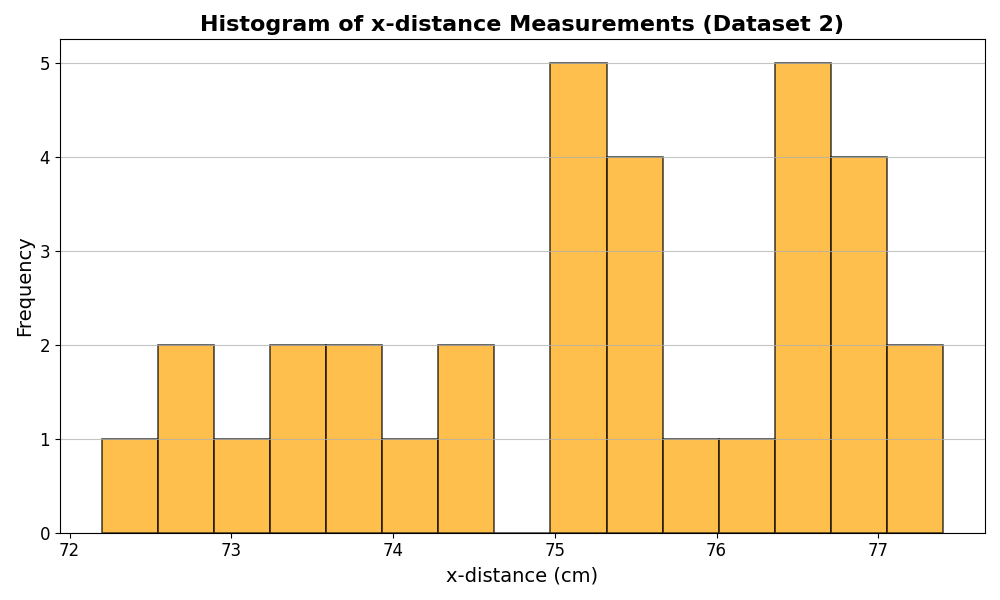
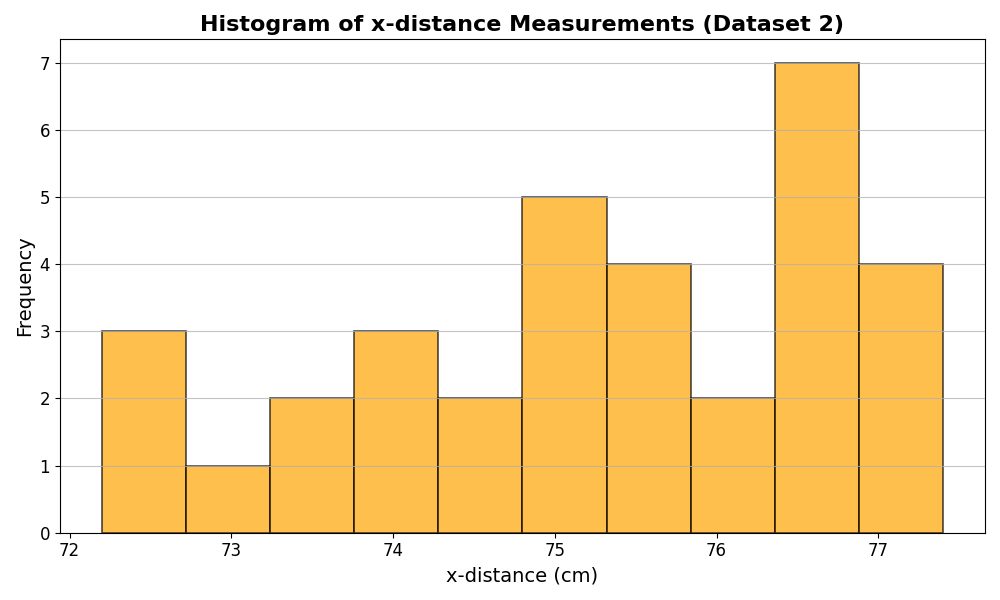
Oct 12, 2024, 9:09 PM

diff --git a/Physics Lab/Lab2.py b/Physics Lab/Lab2.py
@@ -102,10 +102,10 @@ latex_stats_a = stats_to_latex_table(stats_a, "Unweighted Statistics for Dataset
 latex_stats_b = stats_to_latex_table(stats_b, "Unweighted Statistics for Dataset B", "tab:stats_b")
 
 # Save histograms for both datasets
-save_histogram(x_distance_a, "Histogram of x-distance Measurements (Dataset 1)", "x-distance (cm)", "histogram_x_1.png", bins=15, color='blue')
-save_histogram(x_distance_b, "Histogram of x-distance Measurements (Dataset 2)", "x-distance (cm)", "histogram_x_2.png", bins=15, color='orange')
-save_histogram(z_deviation_a, "Histogram of z-distance Measurements (Dataset 1)", "x-distance (cm)", "histogram_z_1.png", bins=15, color='blue')
-save_histogram(z_deviation_b, "Histogram of z-distance Measurements (Dataset 2)", "x-distance (cm)", "histogram_z_2.png", bins=15, color='orange')
+save_histogram(x_distance_a, "Histogram of x-distance Measurements (Dataset 1)", "x-distance (cm)", "histogram_x_1.png", bins=10, color='blue')
+save_histogram(x_distance_b, "Histogram of x-distance Measurements (Dataset 2)", "x-distance (cm)", "histogram_x_2.png", bins=10, color='orange')
+save_histogram(z_deviation_a, "Histogram of z-distance Measurements (Dataset 1)", "x-distance (cm)", "histogram_z_1.png", bins=10, color='red')
+save_histogram(z_deviation_b, "Histogram of z-distance Measurements (Dataset 2)", "x-distance (cm)", "histogram_z_2.png", bins=10, color='green')
 # Output the LaTeX tables
 print("LaTeX Table for Dataset A:")
 print(latex_table_a)
